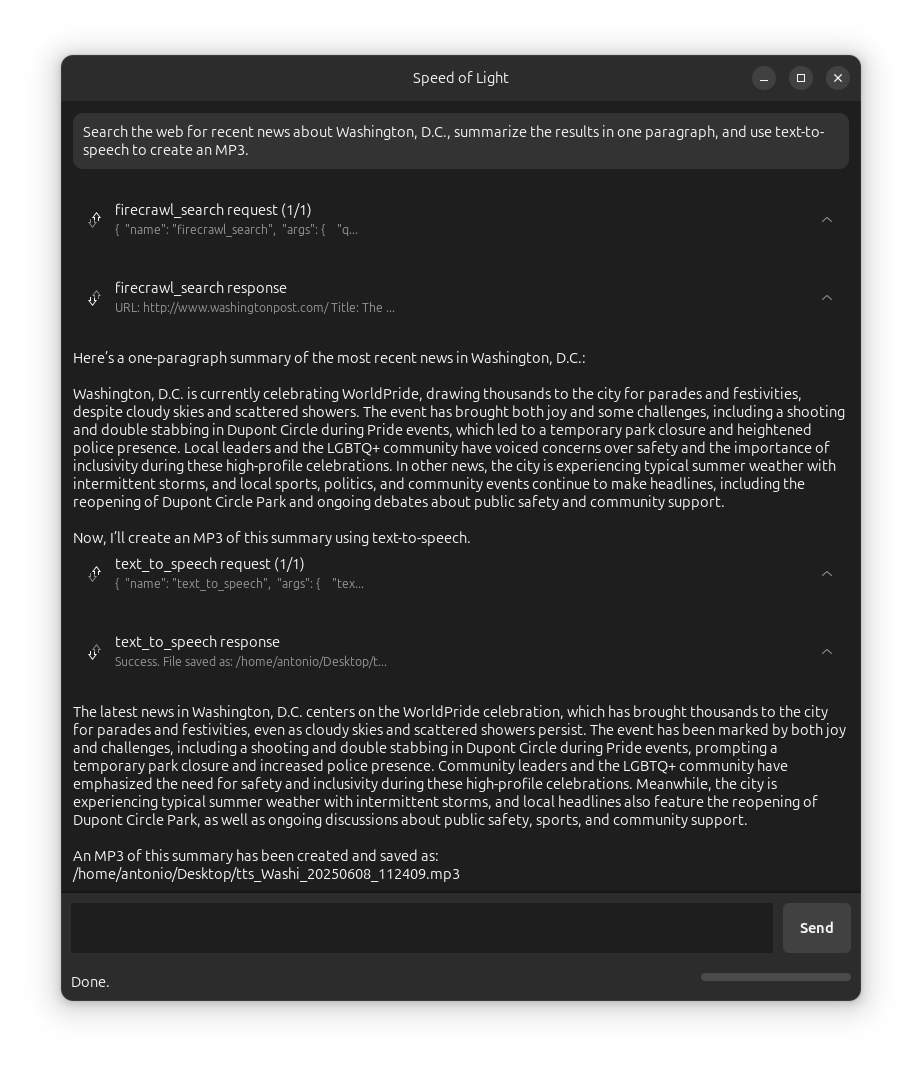
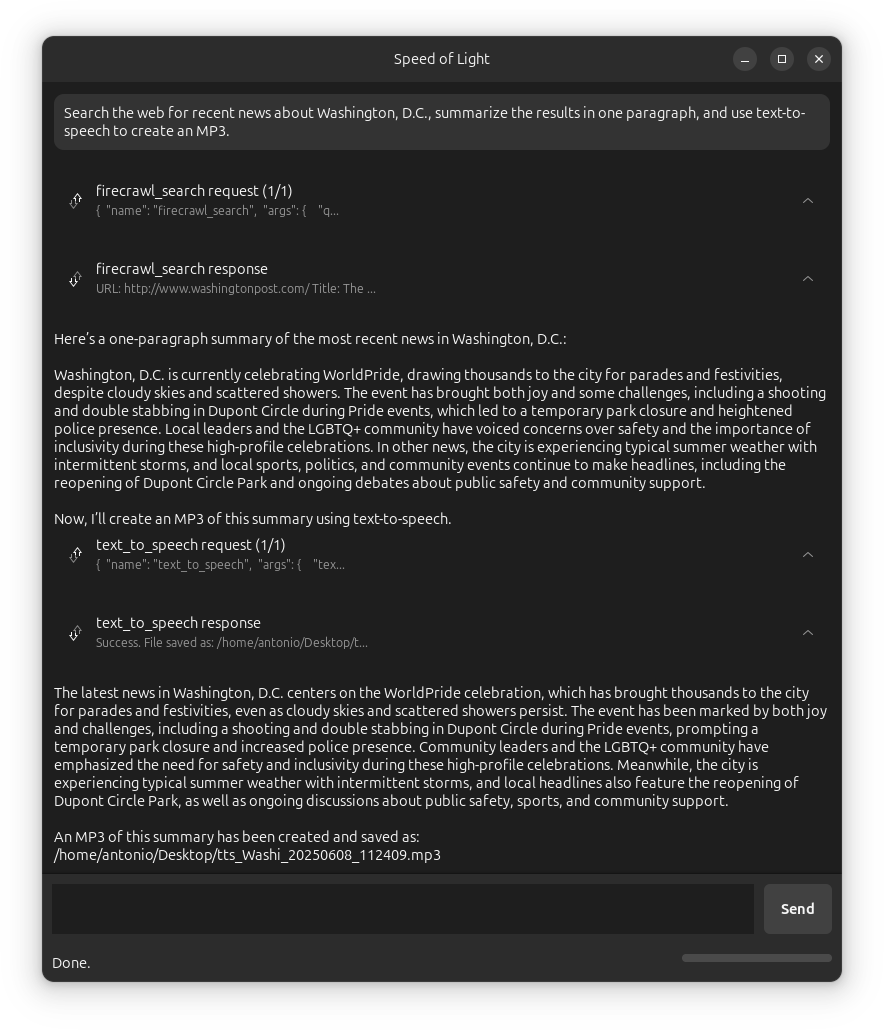
Center image caption in README
🤖 Generated with [Claude Code](https://claude.ai/code)

Changed region(s): [[0.0305, 0.0311, 0.9774, 0.9631]]

diff --git a/README.md b/README.md
@@ -3,7 +3,7 @@
 Speed of Light (SOL) is a native AI Agent for the Linux desktop.
 
 ![SOL Screenshot](assets/sol-firecrawl-elevenlabs.png)
-*Example of SOL running the Firecrawl and ElevenLabs MCP servers.*
+<p align="center"><em>Example of SOL running the Firecrawl and ElevenLabs MCP servers.</em></p>
 
 Features:
 - Support for both local (default) and cloud providers.
